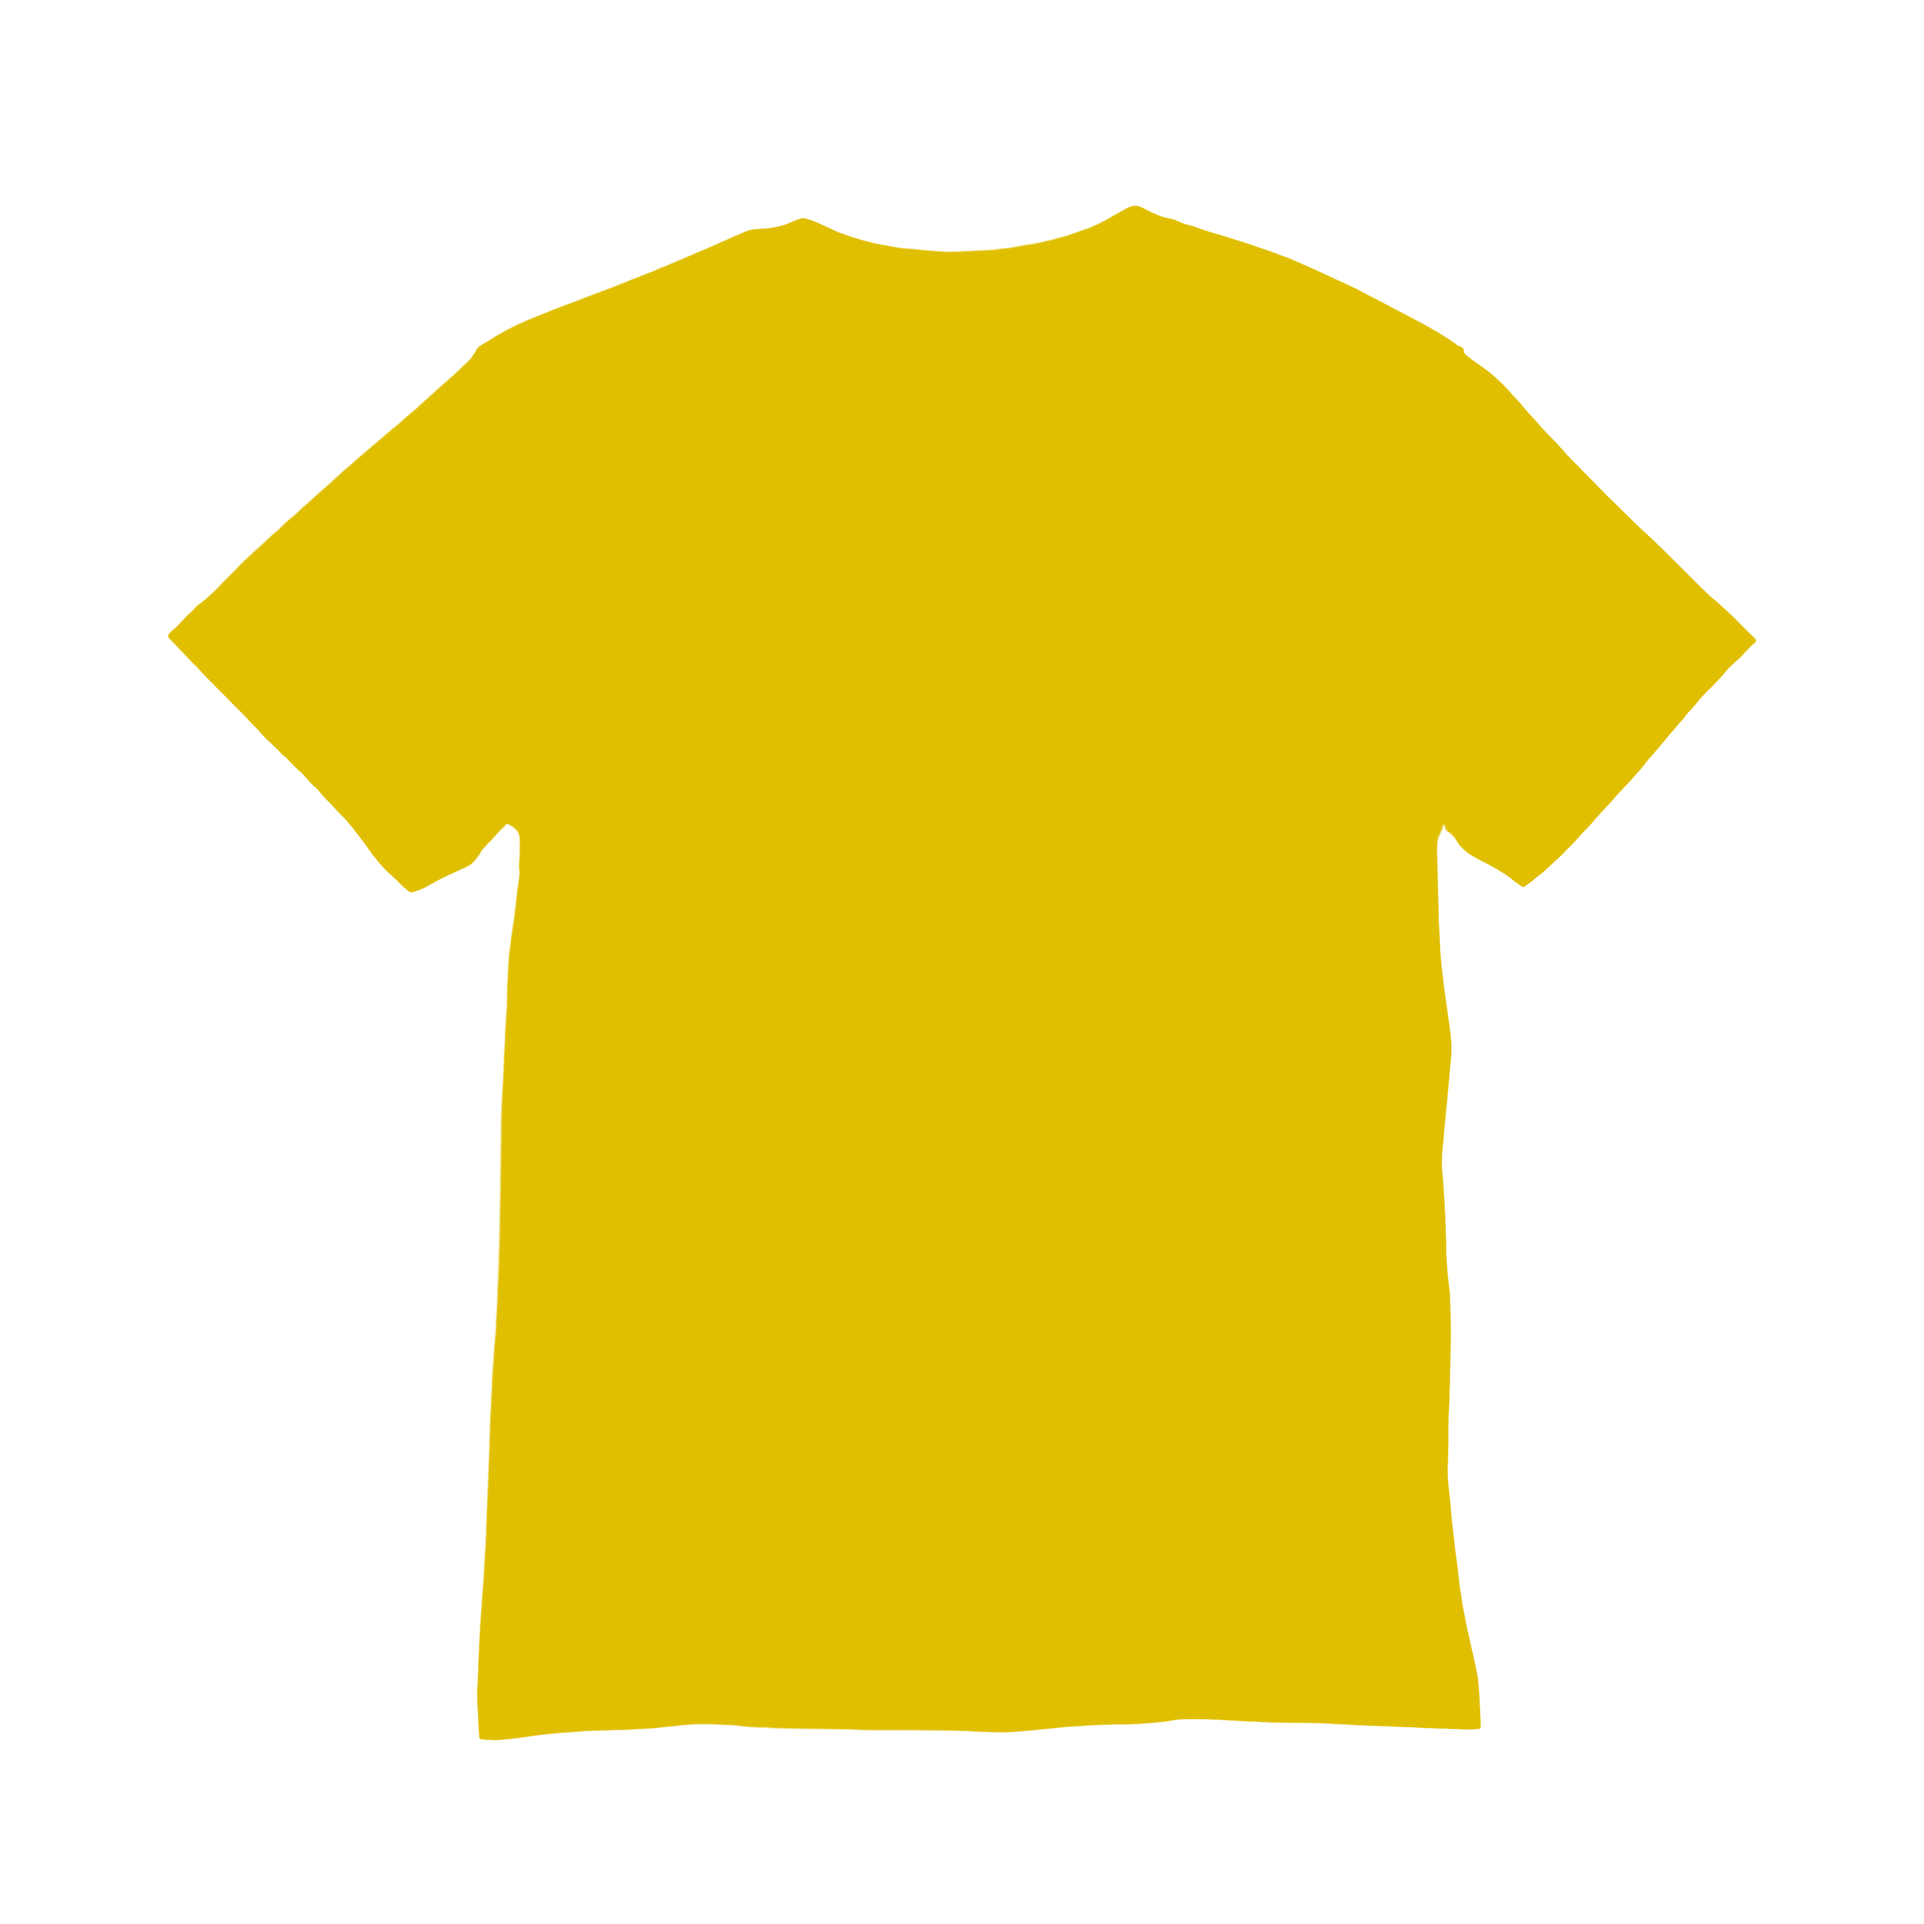
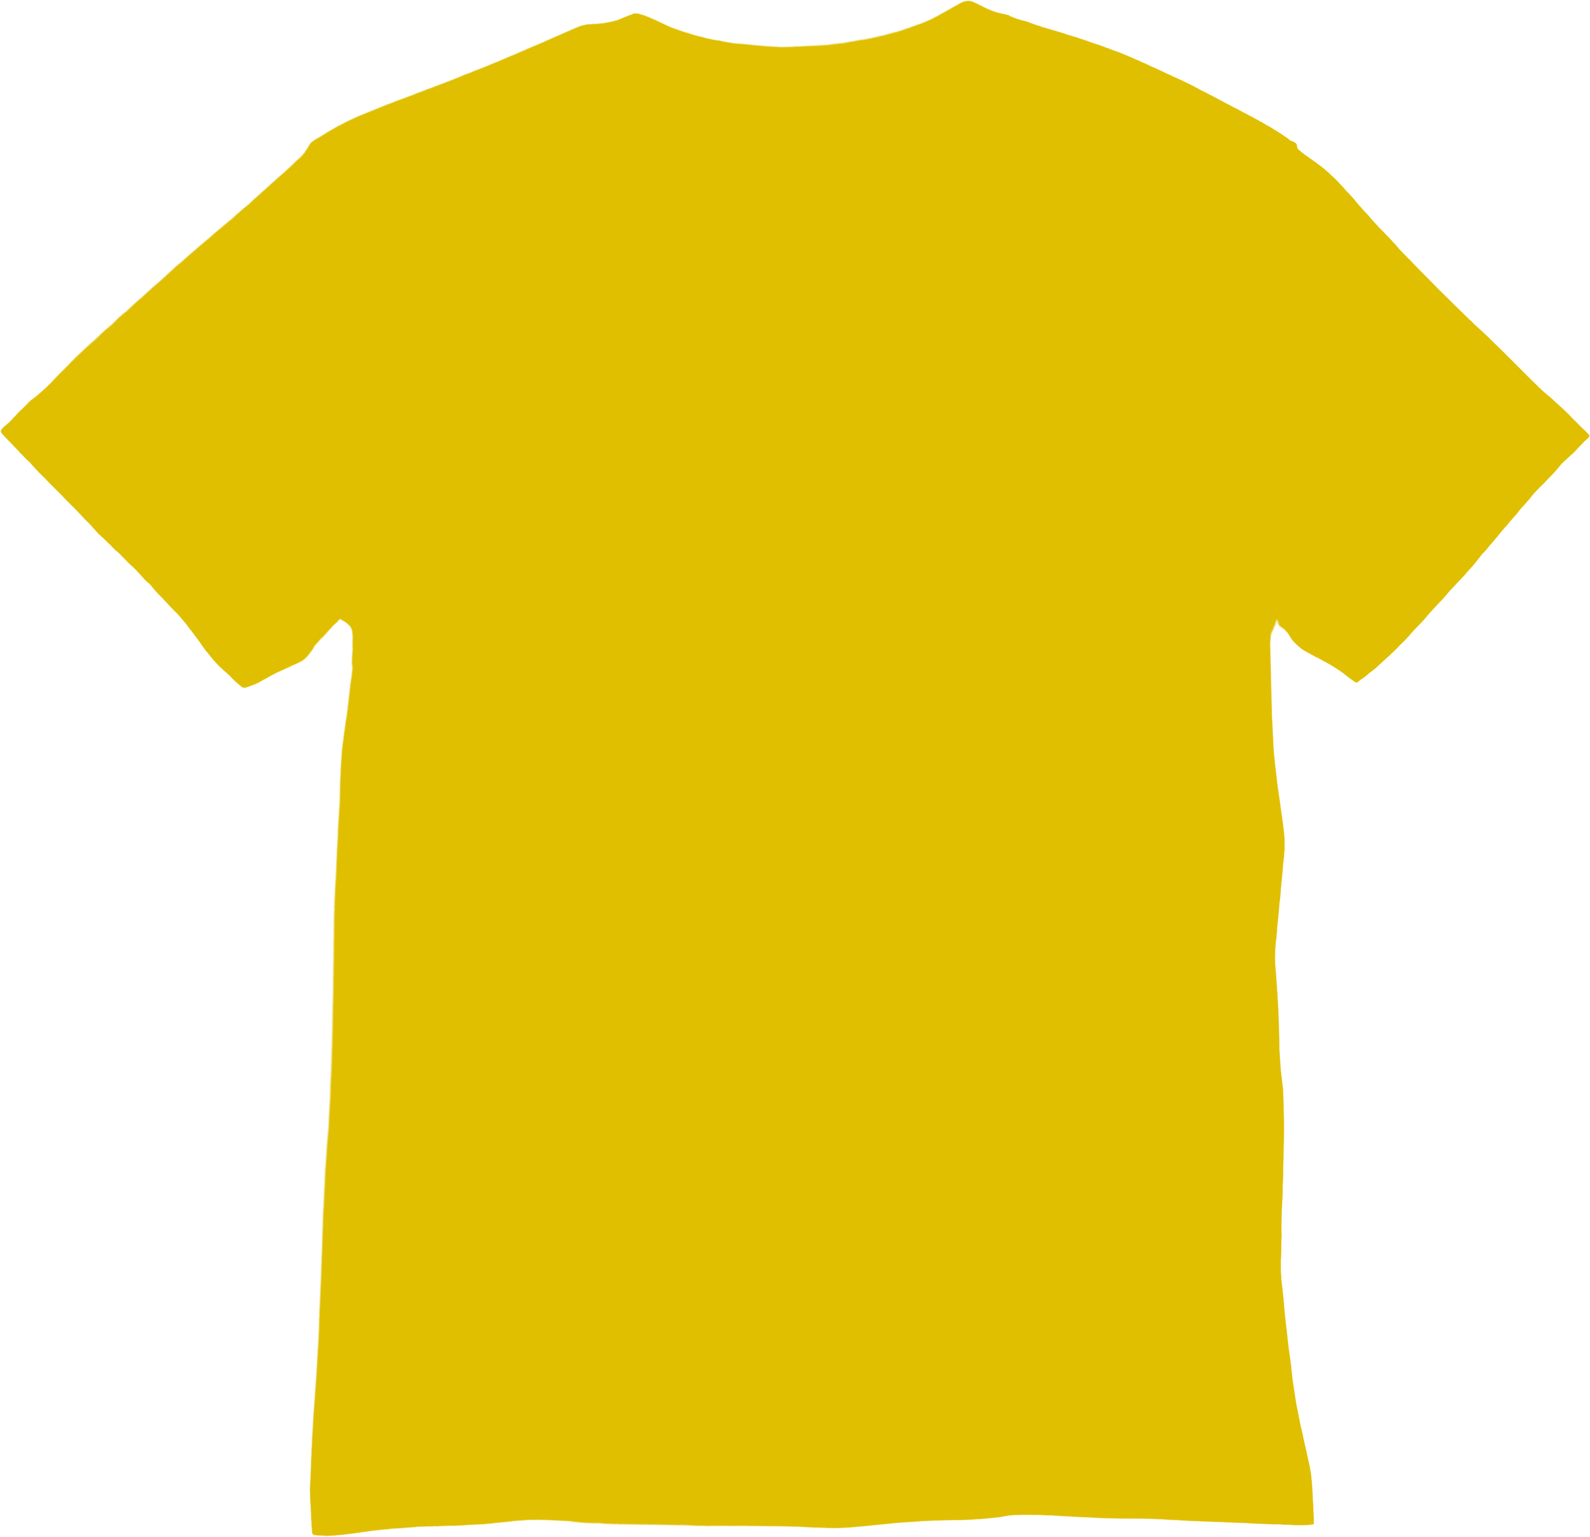
fix: Mejorar estilos y estructura del selector de talles y colores en SelectProductSection

Changed region(s): [[0.0, 0.0, 1.0, 1.0]]

diff --git a/src/components/SelectProductSection.tsx b/src/components/SelectProductSection.tsx
@@ -35,7 +35,7 @@ export default function SelectProductSection() {
       </h2>
 
       {/* Talles */}
-      <div className="flex justify-center  gap-4  flex-wrap">
+      <div className="flex justify-center gap-4 mb-6 flex-wrap">
         {talles.map((talle) => (
           <button
             key={talle}
@@ -50,9 +50,8 @@ export default function SelectProductSection() {
           </button>
         ))}
       </div>
-
       {/* Selector de color */}
-      <div className="flex justify-center gap-4 m-4 flex-wrap">
+      <div className="flex justify-center gap-4 mb-4 flex-wrap">
         {colores.map((color) => (
           <button
             key={color.hex}
@@ -66,16 +65,16 @@ export default function SelectProductSection() {
       </div>
 
       {/* Nombre del color */}
-      <div className="text-center ">
+      <div className="text-center mb-4">
         <p className="text-gray-700">
           {colores.find((c) => c.hex === selectedColor)?.nombre}
         </p>
       </div>
       {/* Imagen con color aplicado */}
-      <div className="relative w-full flex justify-center">
-        <div className="relative ">
+      <div className="relative w-full flex justify-center ">
+        <div className="relative w-100   h-100">
           <div
-            className={`w-150 h-150  [mask-size:contain] [mask-repeat:no-repeat] [mask-position:center]`}
+            className={`w-full h-full   [mask-size:contain] [mask-repeat:no-repeat] [mask-position:center]`}
             style={{
               backgroundColor: selectedColor,
               maskImage: `url(${remeracolor})`,
@@ -84,23 +83,23 @@ export default function SelectProductSection() {
           <img
             src={remera}
             alt="Remera"
-            className="opacity-[3] mix-blend-color-burn absolute inset-0 z-20 w-full h-full object-contain pointer-events-none  "
+            className="opacity-[0.3] mix-blend-color-burn absolute inset-0 z-20 w-full h-full object-contain pointer-events-none  "
           />
           <img
             src={remerahigh}
             alt="Remera"
-            className="opacity-[3] mix-blend-soft-light absolute inset-0 z-20 w-full h-full object-contain pointer-events-none  "
+            className="opacity-[0.1] mix-blend-soft-light absolute inset-0 z-20 w-full h-full object-contain pointer-events-none  "
           />
           <img
             src={remera}
             alt="Remera"
-            className="mix-blend-multiply opacity-[10]
+            className="mix-blend-multiply opacity-[1]
  absolute inset-0 z-20 w-full h-full object-contain pointer-events-none  "
           />
           <img
             src={remerablack}
             alt="Remera"
-            className="opacity-[10] mix-blend-screen
+            className="opacity-[1] mix-blend-screen
  absolute inset-0 z-20 w-full h-full object-contain pointer-events-none  "
           />
         </div>
